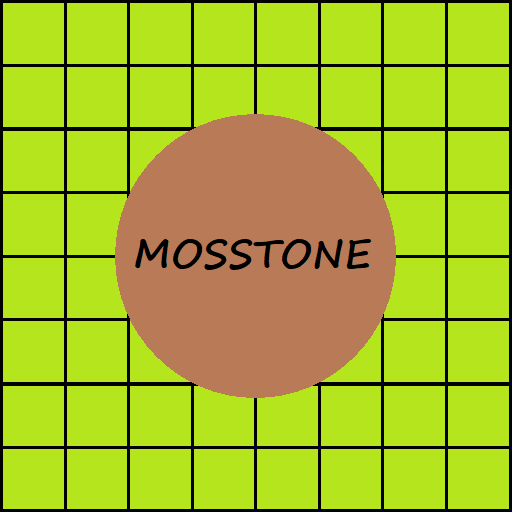
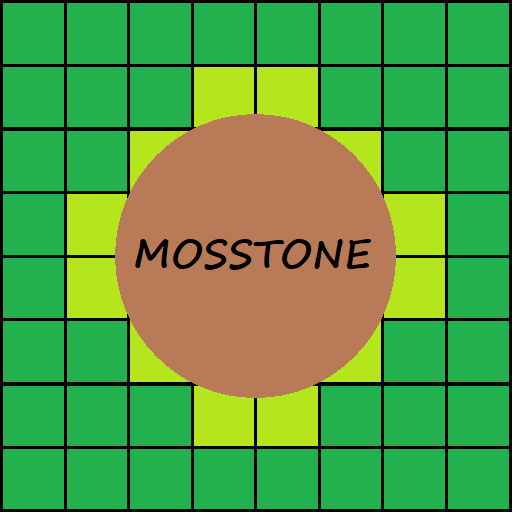
v141222a

diff --git a/common.js b/common.js
@@ -15,15 +15,15 @@ var map = {
     layers: [[
         //1              2                3                4                5                6                7                8                9                10                 11                 12                 13                 14                 15                 16                 17                 18                 19                 20                 21                 22                 23                 24                 25                26                27                     28                 29                 30			      31		      32				  33              34              35                                 
         '0map',          '0map',          '0map',          '0map',          '0map',          '0map',          '0map',          '0map',          '0map',          '0map',            't_trademeet',     '0map',            '0map',            '0map',            '0map',            '0map',            '0map',            '0map',            '0map',            '0map',            '0map',            '0map',            '0map',            '0map',            '0map',           '0map',           '0map',                '0map',            '0map',            '0map',            '0map',         '0map',             '0map',         '0map',         '0map',       
-        '0map',          '0map',          '0map',          '0map',          '0map',          '0map',          '0map',          '0map',          '0map',          '0map',            '0map',            '0map',            '0map',            '0map',            '0map',            '0map',            '0map',            't_brost',         '0map',            '0map',            '0map',            '0map',            '0map',            '0map',            '0map',           '0map',           '0map',                '0map',            '0map',            '0map',            '0map',         '0map',             '0map',         '0map',         '0map',       
-        '0map',          '0map',          '0map',          '0map',          '0map',          '0map',          '0map',          '0map',          '0map',          '0map',            '0map',            '0map',            '0map',            '0map',            '0map',            '0map',            '0map',            '0map',            '0map',            '0map',            '0map',            '0map',            '0map',            '0map',            '0map',           '0map',           '0map',                '0map',            '0map',            '0map',            '0map',         '0map',             '0map',         '0map',         '0map',       
-        '0map',          '0map',          '0map',          '0map',          '0map',          '0map',          '0map',          '0map',          '0map',          't_mosstone',      '0map',            '0map',            '0map',            '0map',            't_mythrhynn',     '0map',            '0map',            '0map',            '0map',            '0map',            '0map',            '0map',            '0map',            '0map',            '0map',           '0map',           '0map',                '0map',            't_8tree',         '0map',            '0map',         '0map',             '0map',         '0map',         '0map',       
-        '0map',          '0map',          '0map',          '0map',          '0map',          '0map',          '0map',          't_kirgard',     '0map',          '0map',            '0map',            '0map',            't_talltrees',     '0map',            '0map',            '0map',            '0map',            '0map',            '0map',            '0map',            '0map',            '0map',            '0map',            '0map',            '0map',           't_nebupool',     '0map',                '0map',            '0map',            '0map',            '0map',         '0map',             '0map',         '0map',         '0map',       
-        '0map',          '0map',          '0map',          '0map',          '0map',          't_portkir',     '0map',          '0map',          '0map',          '0map',            '0map',            '0map',            '0map',            '0map',            '0map',            '0map',            '0map',            '0map',            '0map',            '0map',            '0map',            '0map',            '0map',            '0map',            '0map',           't_suldaness',    '0map',                '0map',            '0map',            '0map',            '0map',         '0map',             '0map',         '0map',         '0map',       
-        '0map',          '0map',          '0map',          '0map',          '0map',          '0map',          '0map',          '0map',          '0map',          '0map',            '0map',            '0map',            '0map',            '0map',            '0map',            '0map',            '0map',            '0map',            '0map',            '0map',            '0map',            '0map',            '0map',            '0map',            '0map',           '0map',           '0map',                '0map',            '0map',            '0map',            '0map',         '0map',             '0map',         '0map',         '0map',       
-        '0map',          '0map',          '0map',          '0map',          '0map',          '0map',          '0map',          '0map',          '0map',          '0map',            '0map',            '0map',            '0map',            '0map',            '0map',            't_tresper',       '0map',            '0map',            '0map',            '0map',            '0map',            '0map',            '0map',            '0map',            '0map',           '0map',           '0map',                '0map',            '0map',            '0map',            '0map',         '0map',             '0map',         '0map',         '0map',       		
-        '0map',          '0map',          '0map',          '0map',          '0map',          '0map',          '0map',          '0map',          '0map',          '0map',            '0map',            '0map',            '0map',            '0map',            't_uluran',        '0map',            '0map',            '0map',            '0map',            '0map',            '0map',            '0map',            '0map',            '0map',            '0map',           '0map',           '0map',                't_varyth_torf_w', 't_varyth_tor',    't_varyth_torf_e', '0map',         '0map',             '0map',         '0map',         '0map',       
-        '0map',          '0map',          '0map',          '0map',          '0map',          't_zazesspur_nw','t_zazesspur_ne','0map',          '0map',          '0map',            '0map',            '0map',            '0map',            '0map',            '0map',            '0map',            '0map',            '0map',            '0map',            '0map',            '0map',            '0map',            '0map',            't_lhestyn_quay',  't_masamont_road','t_masamount',    't_masamount_wudn',    't_varyth_torf_sw','t_varyth_torf_s', 't_varyth_torf_se','0map',         '0map',             '0map',         '0map',         '0map',       
+        '0map',          '0map',          '0map',          '0map',          '0map',          '0map',          '0map',          '0map',          '0map',          '0map',            't_trwaymos3',     '0map',            '0map',            '0map',            '0map',            '0map',            '0map',            't_brost',         '0map',            '0map',            '0map',            '0map',            '0map',            '0map',            '0map',           '0map',           '0map',                '0map',            '0map',            '0map',            '0map',         '0map',             '0map',         '0map',         '0map',       
+        '0map',          '0map',          '0map',          '0map',          '0map',          '0map',          '0map',          '0map',          '0map',          '0map',            't_trwaymos2',     '0map',            '0map',            '0map',            '0map',            '0map',            '0map',            '0map',            '0map',            '0map',            '0map',            '0map',            '0map',            '0map',            '0map',           '0map',           '0map',                '0map',            '0map',            '0map',            '0map',         '0map',             '0map',         '0map',         '0map',       
+        '0map',          '0map',          '0map',          '0map',          '0map',          '0map',          '0map',          '0map',          '0map',          't_mosstone',      't_trwaymos1',     '0map',            '0map',            '0map',            't_mythrhynn',     '0map',            '0map',            '0map',            '0map',            '0map',            '0map',            '0map',            '0map',            '0map',            '0map',           '0map',           '0map',                '0map',            't_8tree',         '0map',            '0map',         '0map',             '0map',         '0map',         '0map',       
+        '0map',          '0map',          '0map',          '0map',          '0map',          '0map',          't_trwaykir2',   't_kirgard',     't_trwaykir3',   't_trwaykir4',     '0map',            '0map',            't_talltrees',     '0map',            '0map',            '0map',            '0map',            '0map',            '0map',            '0map',            '0map',            '0map',            '0map',            '0map',            '0map',           't_nebupool',     '0map',                '0map',            '0map',            '0map',            '0map',         '0map',             '0map',         '0map',         '0map',       
+        't_adlir',       '0mnt',          '0mnt',          '0mnt',          '0map',          't_portkir',     't_trwaykir1',   '0map',          '0map',          '0map',            '0map',            '0map',            '0map',            '0map',            '0map',            '0map',            '0map',            '0map',            '0map',            '0map',            '0map',            '0map',            '0map',            '0map',            '0map',           't_suldaness',    '0map',                '0map',            '0map',            '0map',            '0map',         '0map',             '0map',         '0map',         '0map',       
+        '0mnt',          '0mnt',          't_ramedar',     '0mnt',          '0mnt',          '0mnt',          't_trwayzaz3',   '0mnt',          't_grimjaws',    '0mnt',            '0mnt',            '0map',            '0map',            '0map',            '0map',            '0map',            '0map',            '0map',            '0map',            '0map',            '0map',            '0map',            '0mnt',            't_argentwing',    '0mnt',           '0map',           '0map',                '0map',            '0map',            '0map',            '0map',         '0map',             '0map',         '0map',         '0map',       
+        '0map',          '0map',          '0map',          '0map',          't_battlesend',  '0mnt',          't_trwayzaz2',   '0mnt',          '0mnt',          '0mnt',            '0mnt',            't_memory',        '0mnt',            '0mnt',            '0mnt',            't_tresper',       '0mnt',            '0mnt',            '0mnt',            '0mnt',            '0mnt',            '0mnt',            '0mnt',            '0mnt',            't_targyll',      '0mnt',           '0map',                '0map',            '0map',            '0map',            '0map',         '0map',             '0map',         '0map',         '0map',       		
+        '0map',          '0map',          '0map',          '0map',          '0map',          '0map',          't_trwayzaz1',   '0map',          '0map',          '0map',            '0mnt',            '0mnt',            '0mnt',            '0mnt',            't_uluran',        '0mnt',            '0mnt',            '0mnt',            '0mnt',            '0mnt',            '0mnt',            '0mnt',            '0mnt',            '0mnt',            '0mnt',           '0map',           '0map',                't_varyth_torf_w', 't_varyth_tor',    't_varyth_torf_e', '0map',         '0map',             '0map',         '0map',         '0map',       
+        '0map',          '0map',          '0map',          '0map',          '0map',          't_zazesspur_nw','t_zazesspur_ne','0map',          '0map',          '0map',            '0map',            '0map',            '0map',            '0map',            '0map',            '0map',            '0mnt',            '0mnt',            '0mnt',            '0mnt',            '0map',            '0map',            '0map',            't_lhestyn_quay',  't_masamont_road','t_masamount',    't_masamount_wudn',    't_varyth_torf_sw','t_varyth_torf_s', 't_varyth_torf_se','0map',         '0map',             '0map',         '0map',         '0map',       
         '0map',          '0map',          '0map',          '0map',          '0map',          't_zazesspur_sw','t_zazesspur_se','t_venezir_ne'  ,'t_marakir',     '0map',            '0map',            't_tethyrcast_nw', 't_tethyrcast_n',  't_tethyrcast_ne', 'SuldusBard1',     '0map',            'IthmonSulW',      't_hostim_quay',   't_ithmn_sul_e',   't_ithmn_sul_e1',  't_ithmn_sul_e2',  't_grannox',       't_grannox_farms', 't_lhestynheart',  't_freelm_farms', 't_freelmanse',   't_masamount_wuds',    't_varyth_plain_w','t_varyth_plain_c','t_varyth_plain_e','0IthalRoadWE', '0IthalRoadWES',    '0IthalRoadWE', '0IthalRoadWS', '0map',       
         '0map',          '0map',          '0map',          '0map',          '0map',          't_venezir_sw',  't_venezir_s',   't_venezir_se'  ,'SulZaz3',       'SulZaz4',         'SulZaz5',         't_tethyrcast_w',  't_tethyrcast',    't_tethyrcast_e',  't_alemwood_nw',   't_alemwood_ne',   't_hostim_hill_nw','t_hostim',        't_hostim_wood',   't_ithmon_crag_nw','t_ithmon_crag_ne','t_lhest_gorge',   't_lhest_farm_sw', 't_lhest_farm_s',  't_lhest_farm_se','t_rivshrehill_n','t_rivshrehill_ne',    't_varyth_hill_nw','t_varyth_hill_n', 't_varyth_hill_ne','0map',         't_iltarghal',      '0map',         't_survale',    '0map',       
         '0map',          '0map',          '0map',          '0map',          '0map',          '0map',          '0map',          't_vintor_okr_1','t_vintor_okr_2','t_vintor_okr_3',  't_bardshyr_okr',  't_tethyrcast_sw', 't_tethyrcast_s',  't_tethyrcast_se', 't_alemwood_sw',   't_bardshyr_alem', 't_hostim_hill_w', 't_hostim_road',   't_hostim_hill_e', 't_ithmon_crag_sw','t_ithmon_crag_se','t_qonsir',        't_qonsir_farm',   't_lhest_road',    't_rivshrehill_w','t_rivshrehill_c','t_st_ostus',          't_varyth_hill_sw','t_varyth_hill_s', 't_varyth_hill_se','0map',         '0map',             '0map',         '0IthalRoadNS', '0map',       
